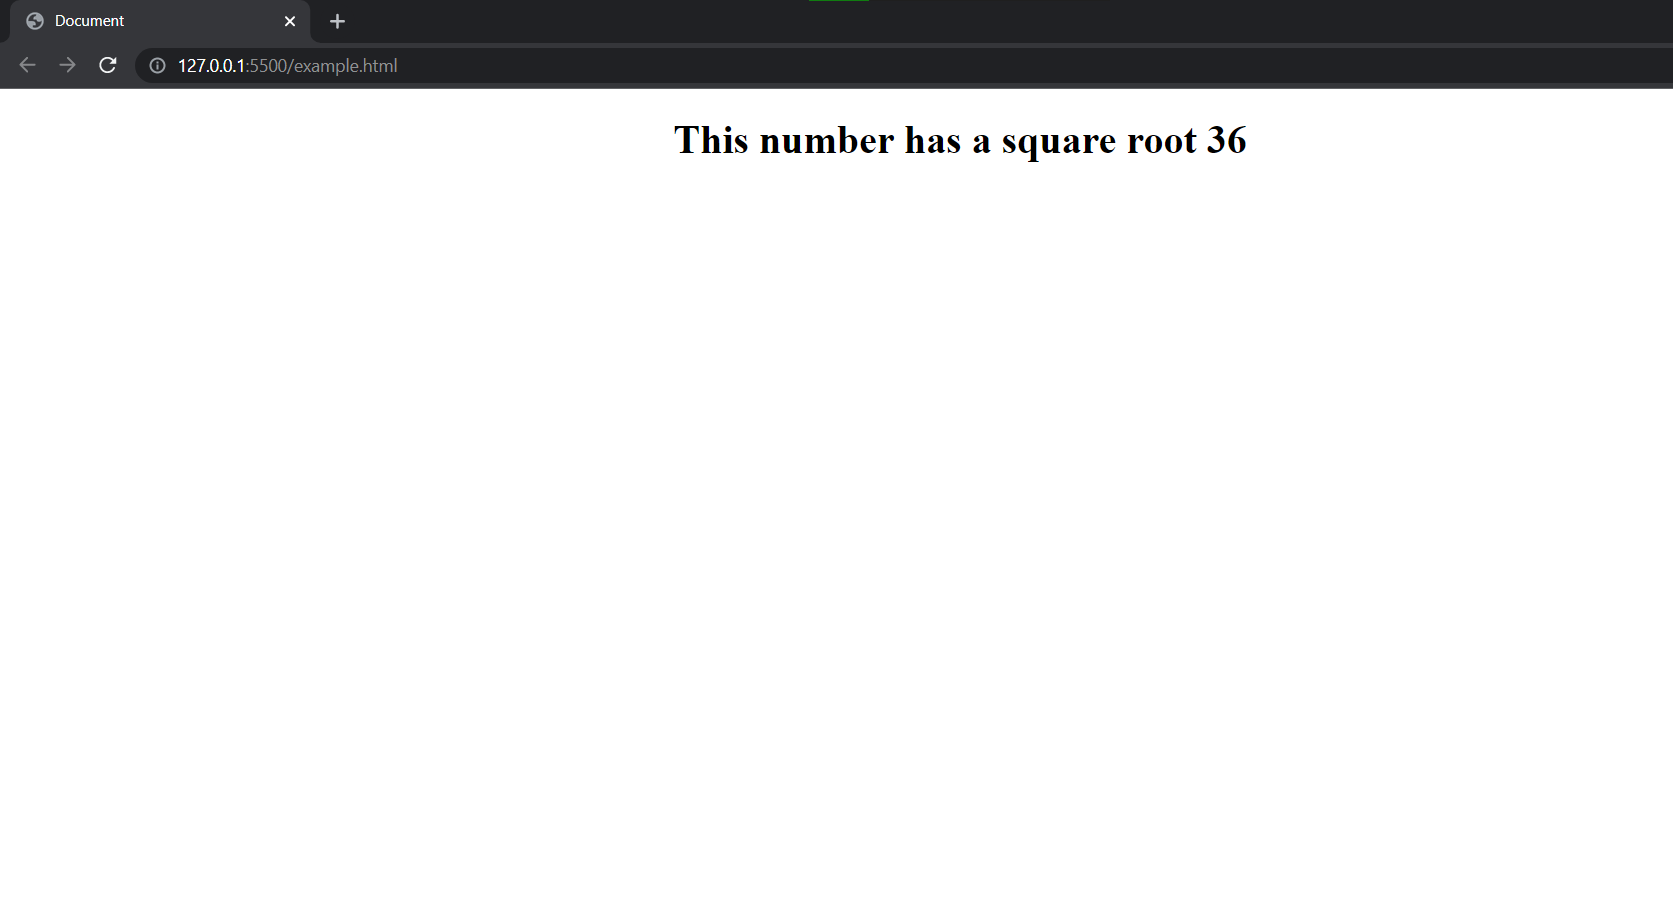
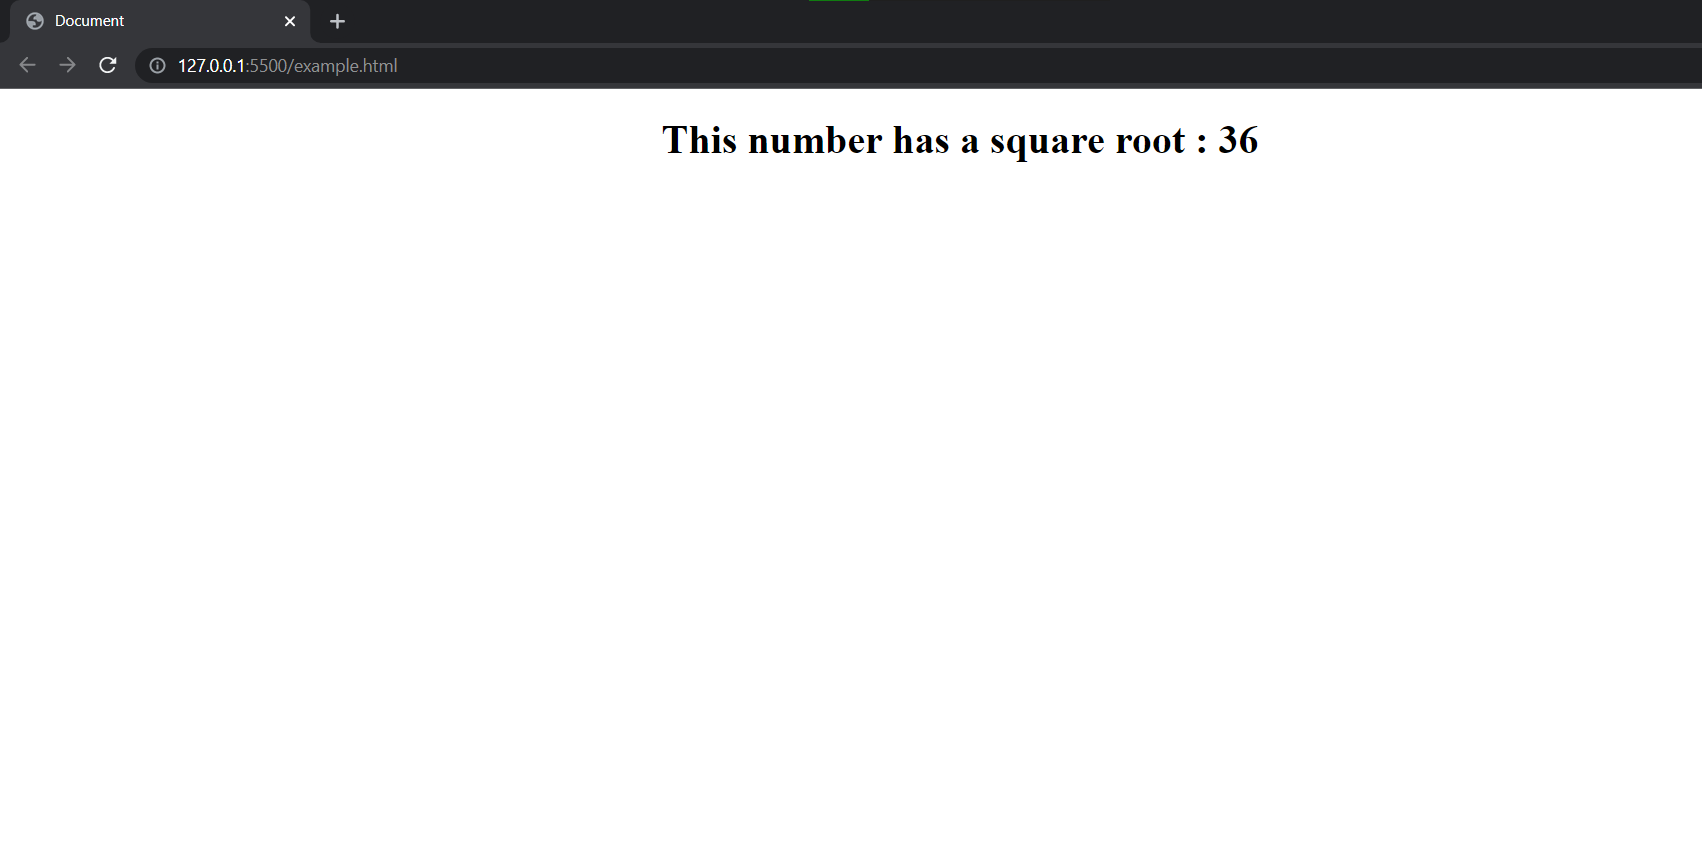
Changd the image, and corrected some typos

Changed region(s): [[0.0, 0.0624, 1.0, 0.1871], [0.0311, 0.0, 0.0932, 0.0312]]

diff --git a/Frontend_Web_Development_React_Angular_Vue/Vue/Week 2/computed_properties.md b/Frontend_Web_Development_React_Angular_Vue/Vue/Week 2/computed_properties.md
@@ -15,7 +15,7 @@ Let's take a look at an example:
 </head>
 <body>
     <!-- Notice how we are calculating the square of the number here. -->
-    <h1 id = "demo" style="text-align: center;">This number has a square root {{ sqNumber**2 }}</h1>
+    <h1 id = "demo" style="text-align: center;">This number has a square root : {{ sqNumber**2 }}</h1>
     <script>
         let vueInstance = new Vue({
             // We are targeting the element with the ID demo
@@ -49,7 +49,7 @@ let vueInstance = new Vue({
 ```
 Note that you should also change your template as follows as we are now using a computed property.
 ```html
-<h1 id = "demo" style="text-align: center;">This number has a square root {{ squaredValue }}</h1>
+<h1 id = "demo" style="text-align: center;">This number has a square root : {{ squaredValue }}</h1>
 ```
 # Usage
 To know when to use computed properties, we should first know the difference between computed properties and methods. When it comes to methods, the code is executed as long as the method is invoked. But that is not the case with computed properties. Computed properties are cache based, and will be triggered only when their reactive dependency (dependencies that can change) has changed. 
